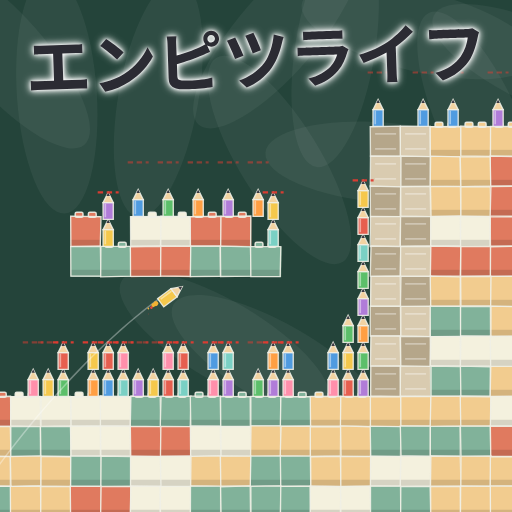
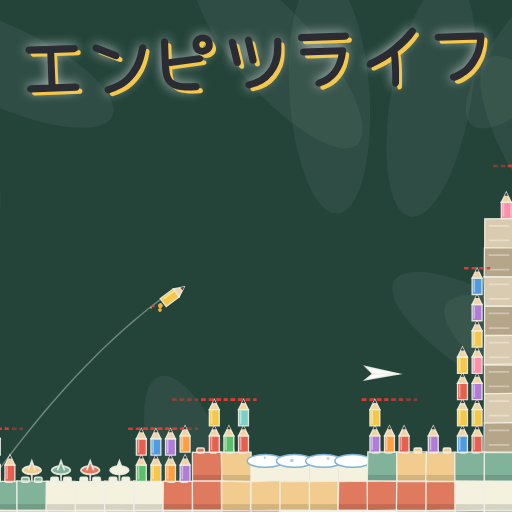
赤い線を少し太く・長く。リンクを貼ったときの画像を新しい層で作りなおし
Claude-Session: https://claude.ai/code/session_01JQ3Fv9esYgeWin3xpk1jM4

diff --git a/js/main.js b/js/main.js
@@ -417,7 +417,7 @@
       const ghost = r && !runCor.has(k) && S.mode === 'play';
       const capN = lv.cap[Math.floor(cxw)] | 0;
       for (let i = 0; i < Math.min(30, c.n); i++) drawPencil(g, X(cxw), Y(sy - i * PH.PH), s, k * 7 + i, 0, ghost ? .35 : 1, ink, false);
-      if (capN > 0 && c.n >= Math.max(1, capN - 1)) { const ly = Y(sy - capN * PH.PH); g.strokeStyle = c.n >= capN ? 'rgba(224,60,50,.95)' : 'rgba(224,60,50,.5)'; g.lineWidth = Math.max(1.5, s * .07); g.setLineDash([s * .18, s * .12]); g.beginPath(); g.moveTo(X(cxw - .35), ly); g.lineTo(X(cxw + .35), ly); g.stroke(); g.setLineDash([]); }
+      if (capN > 0 && c.n >= Math.max(1, capN - 1)) { const ly = Y(sy - capN * PH.PH); g.strokeStyle = c.n >= capN ? 'rgba(224,60,50,.95)' : 'rgba(224,60,50,.5)'; g.lineWidth = Math.max(2, s * .09); g.setLineDash([s * .16, s * .1]); g.beginPath(); g.moveTo(X(cxw - .45), ly); g.lineTo(X(cxw + .45), ly); g.stroke(); g.setLineDash([]); }
     }
     // 予測線
     if (r && !r.p.fly && S.aim && S.mode === 'play') {
